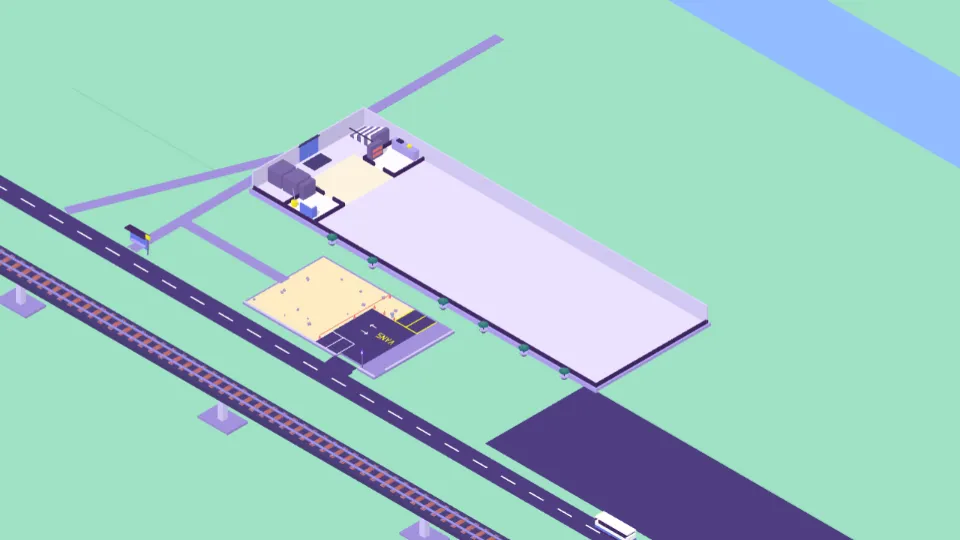
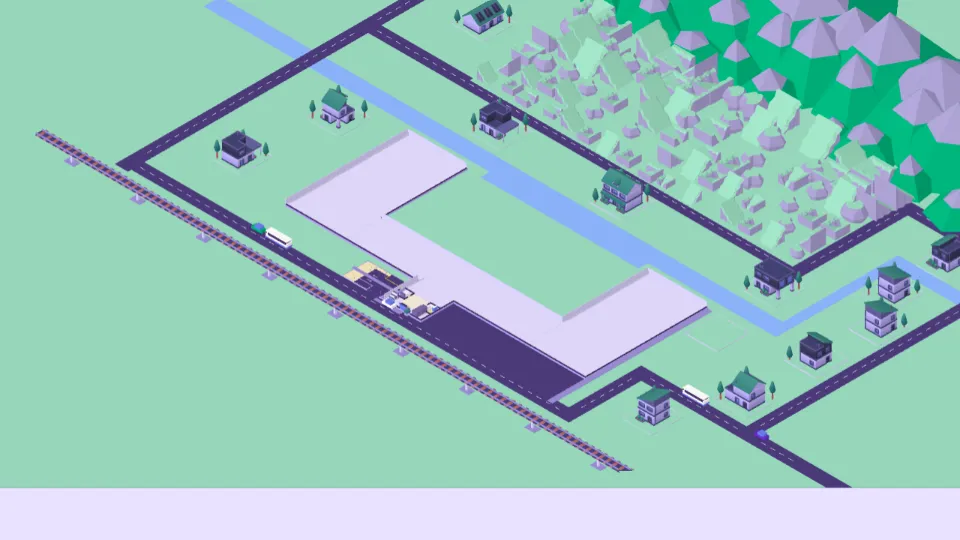
Streets that are less square (#190, part 4 of 4) (#195)

diff --git a/src/office/city.ts b/src/office/city.ts
@@ -56,7 +56,20 @@ export interface TownBlock {
   rect?: { x: number; z: number; w: number; d: number };
   /** The alleyways on it: paved strips with no traffic, by their middle and size. */
   alleys?: { x: number; z: number; w: number; d: number }[];
+  /** On a green strip: where the lamp posts stand (see `streetside`). */
+  lamps?: { x: number; z: number }[];
+  /** A strip down the middle of a dual carriageway: grass inside a kerb, not pavement. */
+  median?: boolean;
 }
+
+/** How tall a street lamp post stands (StreetLamp.tsx), and how far from the kerb of a green strip, and how far apart along it. */
+export const LAMP_HEIGHT = 2.4;
+const LAMP_INSET = 0.8;
+const LAMP_EVERY = 8;
+
+/** Whether a lamp post at this spot hides the office once the view is turned `viewTurn` quarter turns. */
+export const lampHides = (lamp: { x: number; z: number }, viewTurn: number, building: Building = BUILDINGS.standard) =>
+  hidesOffice({ building: { file: '', w: 0.6, d: 0.6, height: LAMP_HEIGHT }, ...lamp, turn: 0 }, viewTurn, 1, building);
 
 /** How far below the office floor the streets are, in tiles: floor 1 is the ground floor. */
 export const streetLevel = (floor: number) => CITY.streetBelow + CITY.perFloor * (floor - 1);
@@ -430,11 +443,13 @@ function mapBlocks(seed: number, site: Site, building: Building, layout: Layout)
     const green = parts.greens.some((g) => covers(g, cell) || covers(cell, g));
     const bands = parts.buildings.filter((r) => covers(cell, r));
     const alleys = parts.alleys.filter((r) => r.x + r.w > cell.x && r.x < cell.x + cell.w && r.z + r.d > cell.z && r.z < cell.z + cell.d).map(middleOf);
-    const base = { i, j, x: mid.x, z: mid.z, rect: mid, ...(alleys.length > 0 && { alleys }) };
+    const median = parts.medians.some((m) => covers(m, cell));
+    const base = { i, j, x: mid.x, z: mid.z, rect: mid, ...(alleys.length > 0 && { alleys }), ...(median && { median }) };
     if (green) {
       // Where the countryside is fields, the green of the drawing is a field.
       const field = site.far === 'field';
-      blocks.push({ ...base, ground: field ? 'field' : 'grass', items: !field && solid(cell) ? greenTrees(seed, i, j, mid, site, building) : [] });
+      const side = !field && solid(cell) ? streetside(seed, i, j, mid, site, building) : null;
+      blocks.push({ ...base, ground: field ? 'field' : 'grass', items: side?.trees ?? [], ...(side && layout.id === 'coaxia' && side.lamps.length > 0 && { lamps: side.lamps }) });
       continue;
     }
     const items: TownBuilding[] = [];
@@ -665,7 +680,29 @@ function terraced(seed: number, i: number, j: number, band: { x: number; z: numb
   return items;
 }
 
-/** The trees on a green strip: two staggered rows along its long side. */
+/**
+ * What stands on a green strip: a row of lamp posts along both long edges, just inside the kerb, and between them the
+ * trees, two staggered rows along the long side. Whatever would hide the ground floor is left out (a lamp that hides it
+ * only from a turned view is left out when it is drawn, see `lampHides`), and a tree is left out where a lamp stands.
+ */
+export function streetside(seed: number, i: number, j: number, cell: { x: number; z: number; w: number; d: number }, site: Site, office: Building): { trees: TownBuilding[]; lamps: { x: number; z: number }[] } {
+  const lamps: { x: number; z: number }[] = [];
+  const alongZ = cell.d >= cell.w;
+  const [length, across] = alongZ ? [cell.d, cell.w] : [cell.w, cell.d];
+  const posts = Math.floor(length / LAMP_EVERY);
+  for (let n = 0; n < posts; n++) {
+    for (const side of [-1, 1]) {
+      const lengthwise = -length / 2 + (n + 0.5) * (length / posts);
+      const crosswise = side * (across / 2 - LAMP_INSET);
+      const [x, z] = alongZ ? [cell.x + crosswise, cell.z + lengthwise] : [cell.x + lengthwise, cell.z + crosswise];
+      if (LAMP_HEIGHT + PAVEMENT > clearance(x, z, 0.6, 0.6, office)) continue;
+      lamps.push({ x, z });
+    }
+  }
+  const trees = greenTrees(seed, i, j, cell, site, office).filter((tree) => lamps.every((lamp) => Math.hypot(lamp.x - tree.x, lamp.z - tree.z) > 1));
+  return { trees, lamps };
+}
+
 function greenTrees(seed: number, i: number, j: number, cell: { x: number; z: number; w: number; d: number }, site: Site, office: Building): TownBuilding[] {
   const trees: TownBuilding[] = [];
   const alongZ = cell.d >= cell.w;

diff --git a/src/office/streetscape.test.ts b/src/office/streetscape.test.ts
@@ -1,0 +1,68 @@
+import { describe, expect, it } from 'vitest';
+import { buildingFor } from '../config/office';
+import { ACTIVE_REGIONS } from '../config/balance';
+import { type RegionId } from '../config/world';
+import { LAMP_HEIGHT, PAVEMENT, lampHides, townBlocks } from './city';
+import { SITES } from './sites';
+import { layoutOf } from './townLayout';
+
+const capital = SITES.capital;
+const office = buildingFor('capital');
+const layout = layoutOf(capital);
+const inside = (r: { x: number; z: number; w: number; d: number }, x: number, z: number) => x > r.x && x < r.x + r.w && z > r.z && z < r.z + r.d;
+
+describe('lamp posts and middle strips (#195)', () => {
+  const blocks = townBlocks(7, capital, office);
+  const lamps = blocks.flatMap((b) => (b.lamps ?? []).map((lamp) => ({ lamp, block: b })));
+
+  it('stand on the green strips of Coax City, in rows along both edges', () => {
+    expect(lamps.length).toBeGreaterThan(10);
+    for (const { lamp, block } of lamps) {
+      // (A block's rect is given by its middle and its size.)
+      const m = block.rect!;
+      const r = { x: m.x - m.w / 2, z: m.z - m.d / 2, w: m.w, d: m.d };
+      expect(inside(r, lamp.x, lamp.z)).toBe(true);
+      expect(block.ground).toBe('grass');
+      // 0.8 in from the kerb: clear of the strollers' line (0.22 in) and of the road.
+      const edge = Math.min(lamp.x - r.x, r.x + r.w - lamp.x, lamp.z - r.z, r.z + r.d - lamp.z);
+      expect(edge).toBeCloseTo(0.8, 6);
+    }
+  });
+
+  it('never hide the office from the first view, and the drawing leaves out those that would from a turned one', () => {
+    for (const { lamp } of lamps) expect(lampHides(lamp, 0, office)).toBe(false);
+    // (A lamp is 2.4 tall: it hides the office when it stands within that distance of its ground floor, whichever way the view turns.)
+    for (const turn of [1, 2, 3]) {
+      const shown = lamps.filter(({ lamp }) => !lampHides(lamp, turn, office));
+      expect(shown.length, `turn ${turn}`).toBeGreaterThan(0);
+      for (const { lamp } of shown) expect(lampHides(lamp, turn, office)).toBe(false);
+    }
+    expect(LAMP_HEIGHT + PAVEMENT).toBeGreaterThan(2);
+  });
+
+  it('keep clear of the trees', () => {
+    for (const b of blocks.filter((x) => x.lamps)) for (const tree of b.items) for (const lamp of b.lamps!) expect(Math.hypot(tree.x - lamp.x, tree.z - lamp.z)).toBeGreaterThan(1);
+  });
+
+  it('are only in Coax City', () => {
+    for (const id of ACTIVE_REGIONS as RegionId[]) {
+      if (id === 'capital') continue;
+      const site = SITES[id];
+      expect(townBlocks(7, site, buildingFor(id)).some((b) => b.lamps), id).toBe(false);
+    }
+  });
+
+  it('middle strips are the narrow cells between the two carriageways, and never the railway side', () => {
+    const { medians, cells } = layout.map!;    expect(medians.length).toBeGreaterThan(0);
+    for (const m of medians) {
+      expect(Math.min(m.w, m.d)).toBeLessThan(6);
+      expect(m.z + m.d).toBeLessThanOrEqual(layout.railway.z - layout.railway.width / 2 + 0.01);
+      // They are cells, so a strip is broken at every cross street, and never overlaps a block.
+      for (const c of cells.filter((c) => Math.min(c.w, c.d) >= 6)) {
+        const overlap = m.x < c.x + c.w && m.x + m.w > c.x && m.z < c.z + c.d && m.z + m.d > c.z;
+        expect(overlap).toBe(false);
+      }
+    }
+    expect(blocks.filter((b) => b.median).length).toBe(medians.length);
+  });
+});

diff --git a/src/office/townLayout.ts b/src/office/townLayout.ts
@@ -69,6 +69,8 @@ export interface MapParts {
   courtyard: { parking: Rect[]; green: Rect[]; fountain: Spot | null };
   /** The cells of the grid the streets make: from kerb to kerb. `i` counts the columns west to east, `j` the rows north to south. */
   cells: (Rect & { i: number; j: number })[];
+  /** The strips down the middle of a dual carriageway: the narrow cells between two of its streets. */
+  medians: Rect[];
   /** The bands of buildings beyond the drawing's north edge: the outermost row, mirrored over its streets. */
   beyond: Rect[];
   /** The water (the sea, a lake, a river) and the beach of the drawing. */
@@ -364,6 +366,7 @@ function mapLayout(id: string, map: TownMap, building: Building, stopFromDrawing
 
   // The grid the streets make, from kerb to kerb: the cells have the drawing's contents in them.
   const cells: MapParts['cells'] = [];
+  const medians: Rect[] = [];
   // The ground of the drawing south of its last street (the company's own row, in a drawing whose streets end north of it) is one more row.
   const bottom = Math.max(...[...buildings, ...alleys, plot].map((r) => r.z + r.d));
   const lastZ = zs[zs.length - 1]!;
@@ -371,7 +374,10 @@ function mapLayout(id: string, map: TownMap, building: Building, stopFromDrawing
   xs.slice(0, -1).forEach((a, i) => {
     rows.slice(0, -1).forEach((b, j) => {
       const next = [xs[i + 1]!, rows[j + 1]!] as const;
-      cells.push({ i, j, x: a.to, z: b.to, w: next[0].from - a.to, d: next[1].from - b.to });
+      const cell = { i, j, x: a.to, z: b.to, w: next[0].from - a.to, d: next[1].from - b.to };
+      cells.push(cell);
+      // The strip between the two carriageways of a road (0.20.0): a narrow cell between two streets, but not the one between the last street and the railway.
+      if (Math.min(cell.w, cell.d) < 6 && !sameLine(b.at, rail.at) && !sameLine(next[1].at, rail.at) && b.at !== bottom && next[1].at !== bottom) medians.push({ x: cell.x, z: cell.z, w: cell.w, d: cell.d });
     });
   });
   const middleOf = (r: Rect): Cell => ({ x: r.x + r.w / 2, z: r.z + r.d / 2, w: r.w, d: r.d });
@@ -488,7 +494,7 @@ function mapLayout(id: string, map: TownMap, building: Building, stopFromDrawing
     },
     pavement: (_building, x, z) => !xs.some((band) => x > band.from + 0.001 && x < band.to - 0.001) && !zs.some((band) => z > band.from + 0.001 && z < band.to - 0.001),
     lotCrossing: () => null,
-    map: { buildings, alleys, greens: map.greens.map(rect).filter((r) => r.x >= xs[0]!.to - 0.01 && r.x + r.w <= xs[xs.length - 1]!.from + 0.01), plot, courtyard, cells, beyond, water: map.water.map(rect), beach: map.beach.map(rect), roads: [], driveways: [], mountains: [], plots: [] },
+    map: { buildings, alleys, greens: map.greens.map(rect).filter((r) => r.x >= xs[0]!.to - 0.01 && r.x + r.w <= xs[xs.length - 1]!.from + 0.01), plot, courtyard, cells, medians, beyond, water: map.water.map(rect), beach: map.beach.map(rect), roads: [], driveways: [], mountains: [], plots: [] },
   };
 }
 
@@ -666,6 +672,7 @@ function roadLayout(id: string, map: TownMap, house: Building): Layout {
       plot,
       courtyard: { parking: [], green: [], fountain: null },
       cells: [],
+      medians: [],
       beyond: [],
       water: map.water.map(rect),
       beach: map.beach.map(rect),

diff --git a/src/office/scene/Town.tsx b/src/office/scene/Town.tsx
@@ -7,7 +7,7 @@ import * as THREE from 'three';
 import { BUILDINGS, coreFrame, onFloor, westOf, widthOf, type Building, type Rect } from '../../config/office';
 import type { GameState } from '../../sim/state';
 import { CITY, NATURE, modelUrl } from '../assets';
-import { PAVEMENT, hidesOffice, rangeOf, streetLevel, townBlocks, trainAt, type TownBlock } from '../city';
+import { PAVEMENT, hidesOffice, lampHides, rangeOf, streetLevel, townBlocks, trainAt, type TownBlock } from '../city';
 import { type Ground, type Site } from '../sites';
 import { lotOf } from '../parking';
 import { placesOf, roundZ, routesOf } from '../street';
@@ -15,6 +15,8 @@ import { roadsOf } from '../traffic';
 import { layoutOf, type Layout } from '../townLayout';
 import { Fountain } from './Fountain';
 import { Parking } from './Parking';
+import { KERB, kerbGeometry, slabGeometry } from './kerb';
+import { StreetLamp } from './StreetLamp';
 import { StreetLife } from './StreetLife';
 import { Shape, ViewTurn, World } from './frame';
 import { type Materials } from './materials';
@@ -104,11 +106,28 @@ function TownBlockView({ block, site, pad, viewTurn, materials, tint }: { block:
   // Water and sand lie lower than a pavement; a field is striped with rows of another crop.
   const height = ground === 'water' ? 0.06 : ground === 'sand' ? 0.12 : block.land ? 0.16 : PAVEMENT;
   const building = useContext(Shape);
+  // A pavement has rounded corners and a kerb (open land that runs on into its neighbours, water, sand and fields are left as they are); a strip down the middle of a dual carriageway is grass inside its kerb.
+  const paved = !block.land && ground !== 'water' && ground !== 'sand' && ground !== 'field';
+  const rise = block.median ? 0.05 : 0;
+  const slab = useMemo(() => (paved ? slabGeometry(w, d, height + rise) : null), [paved, w, d, height, rise]);
+  const kerb = useMemo(() => (paved ? kerbGeometry(w, d, height + KERB.rise + rise) : null), [paved, w, d, height, rise]);
   return (
     <group>
-      <mesh position={[x, height / 2, z]} material={materials[ground]}>
-        <boxGeometry args={[w, height, d]} />
-      </mesh>
+      {slab ? (
+        <mesh position={[x, 0, z]} geometry={slab} material={block.median ? materials.grass : materials[ground]} />
+      ) : (
+        <mesh position={[x, height / 2, z]} material={materials[ground]}>
+          <boxGeometry args={[w, height, d]} />
+        </mesh>
+      )}
+      {kerb && <mesh position={[x, 0, z]} geometry={kerb} material={materials.facade} />}
+      {block.lamps
+        ?.filter((lamp) => !lampHides(lamp, viewTurn, building))
+        .map((lamp, n) => (
+          <group key={`l${n}`} position={[lamp.x, height, lamp.z]}>
+            <StreetLamp materials={materials} />
+          </group>
+        ))}
       {/* Alleyways: asphalt strips on the pavement, with no traffic. */}
       {block.alleys?.map((alley, n) => (
         <mesh key={n} position={[alley.x, height + 0.01, alley.z]} rotation={[-Math.PI / 2, 0, 0]} material={materials.street}>

diff --git a/src/office/scene/kerb.ts b/src/office/scene/kerb.ts
@@ -1,0 +1,47 @@
+// Rounded pavements and their kerbs (0.20.0): one extruded rounded rectangle for each size, shared by every block of that size.
+
+import * as THREE from 'three';
+
+/** How round the corner of a pavement is, how wide its kerb, and how far the kerb stands above the pavement. */
+export const CORNER = 0.4;
+export const KERB = { wide: 0.12, rise: 0.06 };
+
+function outline(w: number, d: number, r: number, inset = 0): THREE.Path {
+  const [x0, x1, y0, y1] = [-w / 2 + inset, w / 2 - inset, -d / 2 + inset, d / 2 - inset];
+  const c = Math.max(0.01, Math.min(r - inset, (x1 - x0) / 2 - 0.001, (y1 - y0) / 2 - 0.001));
+  const path = new THREE.Path();
+  path.moveTo(x0 + c, y0);
+  path.lineTo(x1 - c, y0);
+  path.absarc(x1 - c, y0 + c, c, -Math.PI / 2, 0, false);
+  path.lineTo(x1, y1 - c);
+  path.absarc(x1 - c, y1 - c, c, 0, Math.PI / 2, false);
+  path.lineTo(x0 + c, y1);
+  path.absarc(x0 + c, y1 - c, c, Math.PI / 2, Math.PI, false);
+  path.lineTo(x0, y0 + c);
+  path.absarc(x0 + c, y0 + c, c, Math.PI, Math.PI * 1.5, false);
+  return path;
+}
+
+const shapeOf = (w: number, d: number, r: number) => new THREE.Shape(outline(w, d, r).getPoints(6));
+const cache = new Map<string, THREE.BufferGeometry>();
+
+function extruded(key: string, shape: THREE.Shape, height: number): THREE.BufferGeometry {
+  let geometry = cache.get(key);
+  if (!geometry) {
+    geometry = new THREE.ExtrudeGeometry(shape, { depth: height, bevelEnabled: false, curveSegments: 6 });
+    // The extrusion runs along z; stand it up so that it rises from y = 0 to its height, and its outline lies on the ground.
+    geometry.rotateX(-Math.PI / 2);
+    cache.set(key, geometry);
+  }
+  return geometry;
+}
+
+/** A slab of this size with rounded corners, from y = 0 to `height`, centred on the origin. */
+export const slabGeometry = (w: number, d: number, height: number) => extruded(`s${w}:${d}:${height}`, shapeOf(w, d, CORNER), height);
+
+/** The kerb round such a slab: a rounded ring along its edge, from y = 0 to `height`. */
+export function kerbGeometry(w: number, d: number, height: number): THREE.BufferGeometry {
+  const shape = shapeOf(w, d, CORNER);
+  shape.holes.push(new THREE.Path(outline(w, d, CORNER, Math.min(KERB.wide, w / 3, d / 3)).getPoints(6)));
+  return extruded(`k${w}:${d}:${height}`, shape, height);
+}

diff --git a/src/office/scene/StreetLamp.tsx b/src/office/scene/StreetLamp.tsx
@@ -1,0 +1,29 @@
+// A street lamp post for the town: a round foot, a thin pole, an arm that bends over it and a small glowing head on top, in the dark metal and the lamp colour that lights at night. About 0.6 across and 2.4 tall, standing on y = 0 with its origin in the middle of its foot. The head sits above the pole's centre and the arm reaches out the same way both sides, so the post needs no turning. Five meshes, nothing moves.
+
+import { LAMP_HEIGHT } from '../city';
+import { type Materials } from './materials';
+
+export function StreetLamp({ materials }: { materials: Materials }) {
+  return (
+    <group>
+      {/* Round foot and the thin pole. */}
+      <mesh position={[0, 0.06, 0]} material={materials.metalDark}>
+        <cylinderGeometry args={[0.2, 0.26, 0.12, 12]} />
+      </mesh>
+      <mesh position={[0, 1.1, 0]} material={materials.metalDark}>
+        <cylinderGeometry args={[0.04, 0.06, 2.0, 8]} />
+      </mesh>
+      {/* The arm bends over the top of the pole, both ways, and a collar holds the head. */}
+      <mesh position={[0, 2.12, 0]} material={materials.metalDark}>
+        <boxGeometry args={[0.6, 0.05, 0.05]} />
+      </mesh>
+      <mesh position={[0, 2.16, 0]} material={materials.metalDark}>
+        <cylinderGeometry args={[0.1, 0.07, 0.06, 8]} />
+      </mesh>
+      {/* The head, lit at night. */}
+      <mesh position={[0, LAMP_HEIGHT - 0.1, 0]} material={materials.lamp}>
+        <cylinderGeometry args={[0.1, 0.14, 0.2, 8]} />
+      </mesh>
+    </group>
+  );
+}

diff --git a/Decisions.md b/Decisions.md
@@ -168,6 +168,7 @@ On 18 October 2026:
   - **The town drawings are the source of the town's plan (0.20.0, #196):** `npm run town-maps` reads `design/towns/*.svg` (`src/config/townMapReader.ts`) into `src/config/townMaps.ts`, which is generated and never edited (a test holds it against the drawings). At 10 px a tile, mirrored left to right, (0, 0) at the north-west corner of the U, every edge rounded to the nearest tile (off by more than 2 px is reported, not refused). What a shape is goes by its fill colour, not its class name, which Illustrator renumbers: a colour the reader does not know stops the script. A lane's direction is that of the nearest `>>>>`. The bus stop has no shape, only its text, and stands on the kerb of the nearest lane. Nothing in the game reads the table yet.
   - **Aerial Fields and Amplify Hills are laid out by their roads (0.20.0, #218):** `roadLayout()` in `townLayout.ts` (named in `BY_ROADS`, so the other map towns cannot change by accident; `traffic.fixture` holds them). Each 2-tile lane is a road with its own ends (lanes in a line are one road; two roads side by side with kerbs less than `TWIN` apart where one begins as the other ends are one road, the later moved to the first's line; an end beside another road ends on its middle line); 1-tile lanes and the unused parking strip are paving with no traffic. `Layout.edge` is the drawing's bounds: vehicles come in only where a road reaches it. `roadLayout` takes the region's building (#225): the building of the region (`fields`, `hills`; 0.20.0) stands on all the red shapes (the drawing shifted so its westmost wing is the building's west face, y unchanged), its door and gate from `coreFrame` as in `mapLayout` (the middle of the hall's south face, into the U), the bus stop 4 tiles west of the gate (the same place on the ground as before) and `away` along the front pavement to the inner corner of the west leg (in Amplify Hills, with no such corner, 1.5 tiles west of the reception box). Amplify Hills (#226): the door is on the box's south face, one tile from the road; its two parking strips are as far from the door, and a tie goes to the west one (the lot has always been that side), the east strip being plain paving; the people out for a walk keep to the front of the building (the reception's rows and the pavement), because a loop round all of it would cross the lake. The lot is the drawn strip nearest the door, opening onto the road south of it (`along: 'x'`, `lotFrame` draws it turned). Houses are one to a plot (bands cut into plots of about 11 tiles), fields are the greens, water is drawn as drawn and roads lie over it as flat bridges, foothills are on the near mountain rect (`hillsOn`) and the range (`rangeOf`) on the far one. The bus stop is on the road south of the lot, west of Aerial Fields' T-junction (east of it the road is a dead end), so the walk from the stop is longer than `DAY.busWalk` (a road is 20 to 30 tiles from the door); the working day reckons with each town's own walk (`busWalkOf` in `walks.ts`: the measured walk, never less than `DAY.busWalk`), so `doorTime` and the bus the street picks agree (#221). Traffic fixes found on these roads: a long vehicle turning right at a lit crossing in a town with an edge waits for the other way's lane to be clear (as at a T); a bus's follower keeps a half bus length more behind a turn back; a bus with no way on but a dead end drives into it and turns round, and sets out 6 s sooner to give way to the bus before it on its way back; strollers with no other block all walk round the office.
   - **The other regions, one at a time (0.20.0, #200):** every region has its own drawing in `design/towns`, and the reader (`townMapReader.ts`) knows water and beach by colour; a lane with no `>>>>` on it is `dir: 'both'` (two-way). Transponder Valley (`north`) and Skywave Beach (`coast`) are laid out from their drawings; yards are bands of the drawing (`yardsOn`), and the beach and water are blocks of their own from the drawing. A drawing without a U uses its drawn parking as the lot (a strip drawn upright is made into one lying to the street) and the region's own building's door (the beach's faces north); where no street is beside the company's ground the stops are on the nearest one along its front or back, which then carries traffic. The railway may be north of the town. Aerial Fields and Amplify Hills still use the grid: their roads are single lanes that end in T-junctions, not streets that run the length of the town. The traffic can do that since #217 (streets with ends of their own, below); laying the two towns out is #218. Each of the four regions also needs its own building (the red shapes are the building).
+  - **The street's looks steer nothing (0.20.0, #195):** the rounded pavement corners and kerbs, the grass strips down the dual carriageways (`MapParts.medians`: the narrow cells between two streets, never the one beside the railway) and the lamp posts on the green strips (`streetside`, 8 tiles apart, 0.8 in from the kerb) are drawing only. Traffic and the strollers go by the cells as before, and a lamp that would hide the office from a turned view is left out when drawn (`lampHides`). Arrows on one-way lanes wait for the traffic to follow the drawn directions (#194): drawn before, they would point against the cars.
   - **Coax City is laid out from the map (0.20.0, #197):** where the streets, the office's own block, the lot and the stops are is asked of a `Layout` (`src/office/townLayout.ts`), by site (`Site.map`): the capital's is read from `townMaps.coaxia`, the other regions keep the grid of blocks with 2-tile streets, to the same numbers as before (a test holds them). Traffic, people and parking take the layout from the traffic (`traffic.roads`, `roadsOf`) instead of module constants. In the map:
     - The drawing is used as `townMaps` has it (mirrored, the U opening east); the office is the north wing, the standard building exactly its size. A street is two lanes of the drawing side by side, 4 tiles, and the traffic follows the drawing's arrows (#194: see "Lanes follow the drawing" below). Two streets less than 4 tiles' kerb apart (the map's pairs a tile or two apart) are one road, a dual carriageway: both carriageways carry traffic, and the crossing with a street is one box over both and the strip between, so nobody stands between them. One more street closes the map in the east, and the outermost row of blocks goes on past the north edge, mirrored. The lights are at the junctions of the busy streets: the reception's street (west of the office) and the one east of it, with the road in front.
     - The bus stop and the taxi stand are on the reception's street, in its lane on the office's side. The bus stands level with the entrance (not with the drawing's bus stop, 13 tiles south of it) so that the walk to the door stays within `DAY.busWalk`; the taxi stands north of it, because a taxi waiting there would otherwise hold up a bus that has not yet reached its stop. A car or taxi bound for its stop may overtake a standing bus before it.

diff --git a/design/style.md b/design/style.md
@@ -116,7 +116,7 @@ Built in Phases 5f and 5g with Kenney's Furniture Kit, Mini Characters, City Kit
 - **Rooms** have their own tints (mint office, coral radio studio, blue talk studio, violet TV studio, yellow library) on a lavender slab. Walls are ink and cut low; the two outer walls furthest from the camera stand tall in pale lavender, whichever way the view is turned. A selected room or piece of furniture is marked in orange.
 - **Light** comes from the upper left, soft, with one hard-edged shadow. No bloom, no gradients, no tone mapping: a surface facing the light shows its token color.
 - **Labels** on the view are small windows: white, with the lilac line underneath.
-- **The town** around the office uses Kenney's City Kit (Commercial), tinted lavender by day and dark purple at night so it stays behind the office. Floor 1 stands at street level; the floors under floors 2 and 3 are drawn like the kit's buildings (pale walls, blue windows, a dark band per storey, the kit's awnings). Streets are dark purple, pavements lavender, cars are simple shapes in the accent colors.
+- **The town** around the office uses Kenney's City Kit (Commercial), tinted lavender by day and dark purple at night so it stays behind the office. Floor 1 stands at street level; the floors under floors 2 and 3 are drawn like the kit's buildings (pale walls, blue windows, a dark band per storey, the kit's awnings). Streets are dark purple, pavements lavender, cars are simple shapes in the accent colors. Pavements have rounded corners and a low kerb in the facade colour; in Coax City a strip of grass inside a kerb runs down the middle of each dual carriageway, and lamp posts (dark metal, a head that glows at night) stand along the green strips.
 - **A block in town is built up**: terraces of kit buildings wall to wall along the streets, fronts to the pavement, back to back where the block is deep enough; a tower, a large hall or a house with a garden has the block to itself.
 - **Each region has its own surroundings** (`src/office/sites.ts`): the Commercial kit in Coaxia, the Industrial kit in Transponder Valley, the Suburban kit in Amplify Hills and Aerial Fields, and both by the sea in Skywave Beach. All get the same tint. Open land is flat color: grass, sand, water and field (`--o3-grass`, `--o3-sand`, `--o3-water`, `--o3-field`), with fields striped in grass and hills as Nature Kit foothills (green-topped stone slopes, `public/models/nature/`) with a range of rock behind them (`--o3-rock`), never as round domes. Where the town lies by water, a shore runs along the last street (sand, or grass with trees), and the side streets end at that street.
 - **The railway** in front of the office uses Kenney's Train Kit with the same tint. The train is the kit's yellow double-decker, a Dutch one, in every year.
